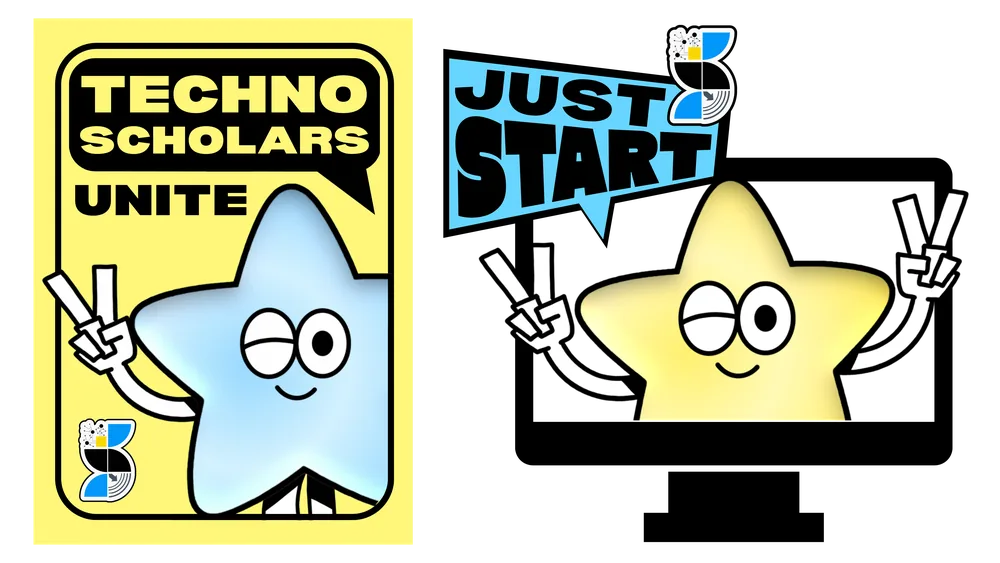
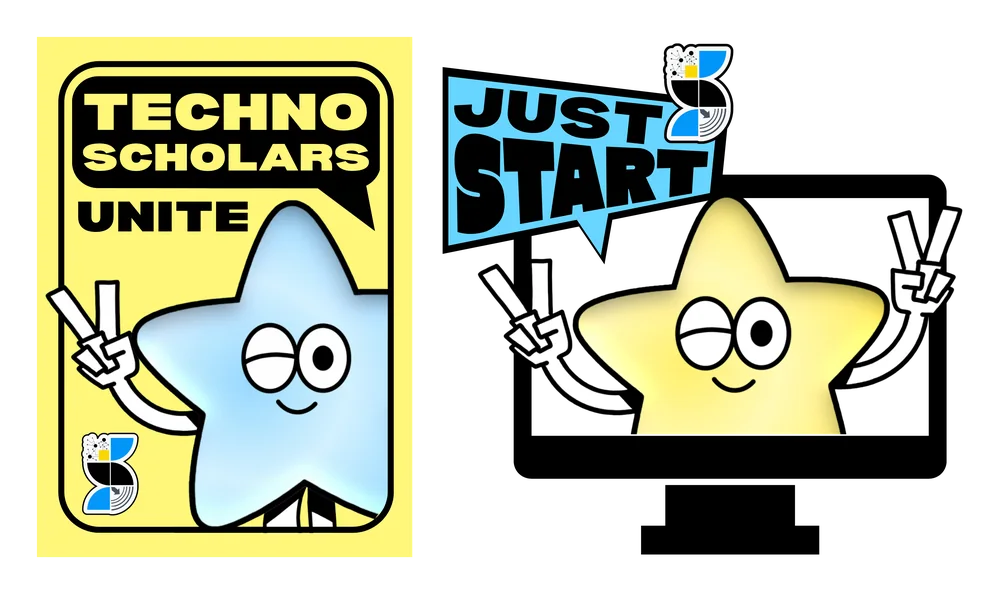
fix: contain only stickers, restore cover for other products, trim pin and sticker margins

diff --git a/src/components/landing.tsx b/src/components/landing.tsx
@@ -100,7 +100,7 @@ export function Landing({ lineup }: { lineup: LineupItem[] }) {
               const tile = (
                 <>
                   <div className="relative overflow-hidden rounded-lg bg-zinc-100 dark:bg-zinc-900">
-                    <Image src={p.image} alt={p.name} width={600} height={600} unoptimized className="aspect-square w-full object-contain p-2" />
+                    <Image src={p.image} alt={p.name} width={600} height={600} unoptimized className="aspect-square w-full object-cover" />
                     {live && p.soldOut && <span className="absolute left-2 top-2 rounded bg-zinc-900 px-2 py-0.5 text-xs font-medium text-white">Sold out</span>}
                   </div>
                   <p className="mt-3 text-sm font-medium">{p.name}</p>

diff --git a/src/components/checkout-form.tsx b/src/components/checkout-form.tsx
@@ -187,7 +187,7 @@ export function CheckoutForm() {
         <ul className="mt-4 divide-y divide-zinc-200 text-sm dark:divide-zinc-800">
           {items.map((i) => (
             <li key={`${i.productId}:${i.size}`} className="flex gap-3 py-3">
-              <Image src={i.image ?? "/products/jacket.svg"} alt="" width={56} height={56} unoptimized className="size-14 shrink-0 rounded bg-zinc-100 object-contain dark:bg-zinc-900" />
+              <Image src={i.image ?? "/products/jacket.svg"} alt="" width={56} height={56} unoptimized className="size-14 shrink-0 rounded object-cover" />
               <div className="min-w-0 flex-1">
                 <p className="font-medium">{i.name}</p>
                 <p className="text-zinc-500 dark:text-zinc-400">

diff --git a/src/components/cart-view.tsx b/src/components/cart-view.tsx
@@ -37,7 +37,7 @@ export function CartView() {
           return (
             <li key={`${i.productId}:${i.size}`} className="flex gap-4 py-5">
               <Link href={`/products/${i.slug}`} className="shrink-0" aria-hidden="true" tabIndex={-1}>
-                <Image src={i.image ?? "/products/jacket.svg"} alt="" width={96} height={96} unoptimized className="size-24 rounded-md bg-zinc-100 object-contain dark:bg-zinc-900" />
+                <Image src={i.image ?? "/products/jacket.svg"} alt="" width={96} height={96} unoptimized className="size-24 rounded-md object-cover" />
               </Link>
               <div className="min-w-0 flex-1">
                 <div className="flex justify-between gap-3">

diff --git a/src/app/shop/page.tsx b/src/app/shop/page.tsx
@@ -28,7 +28,7 @@ export default async function Shop() {
                     width={600}
                     height={600}
                     unoptimized
-                    className="aspect-square w-full object-contain p-2 transition-transform group-hover:scale-[1.03]"
+                    className={`aspect-square w-full transition-transform group-hover:scale-[1.03] ${p.productType === "sticker" ? "object-contain p-2" : "object-cover"}`}
                   />
                   {soldOut && <span className="absolute left-2 top-2 rounded bg-zinc-900 px-2 py-0.5 text-xs font-medium text-white">Sold out</span>}
                 </div>

diff --git a/src/app/products/[slug]/page.tsx b/src/app/products/[slug]/page.tsx
@@ -48,7 +48,7 @@ async function ProductContent({ params }: { params: PageProps<"/products/[slug]"
               height={900}
               unoptimized
               priority={idx === 0}
-              className="aspect-square w-full rounded-lg bg-zinc-100 object-contain p-2 dark:bg-zinc-900"
+              className={`aspect-square w-full rounded-lg bg-zinc-100 dark:bg-zinc-900 ${product.productType === "sticker" ? "object-contain p-2" : "object-cover"}`}
             />
           ))}
         </div>
